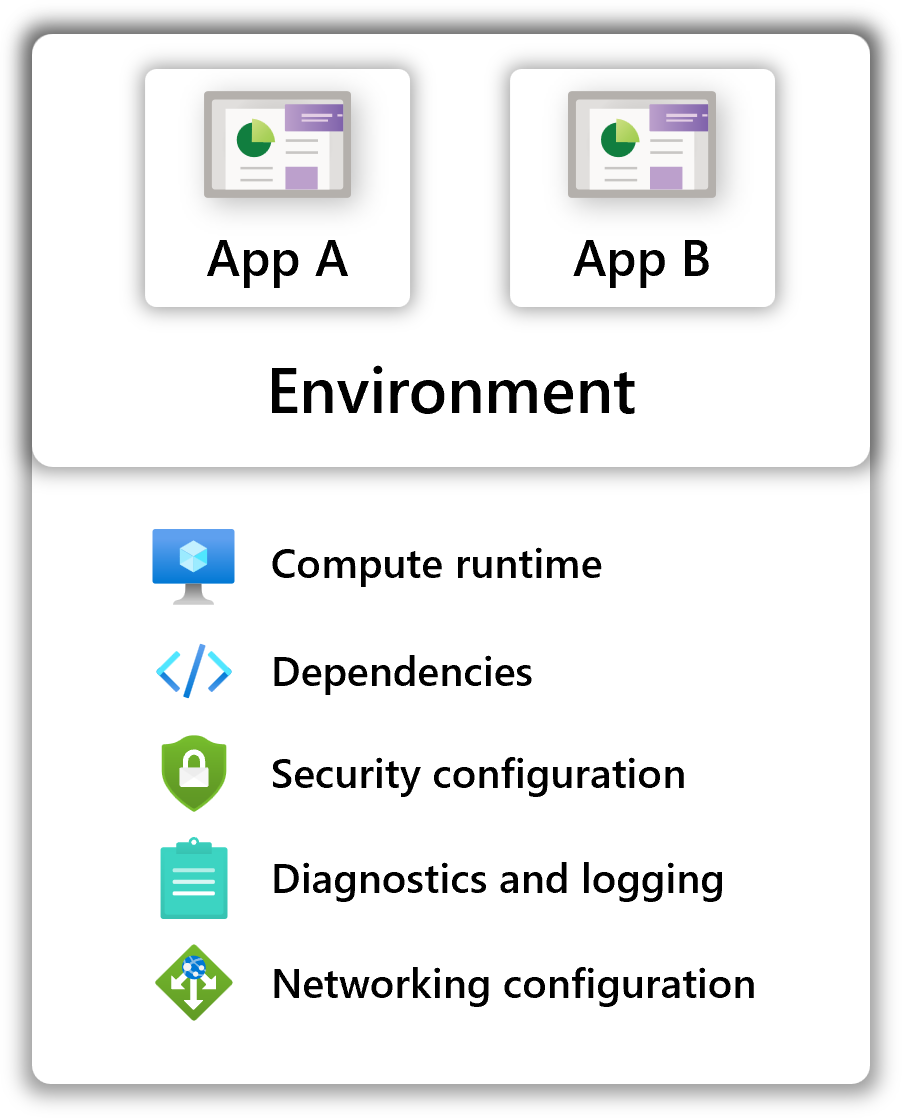
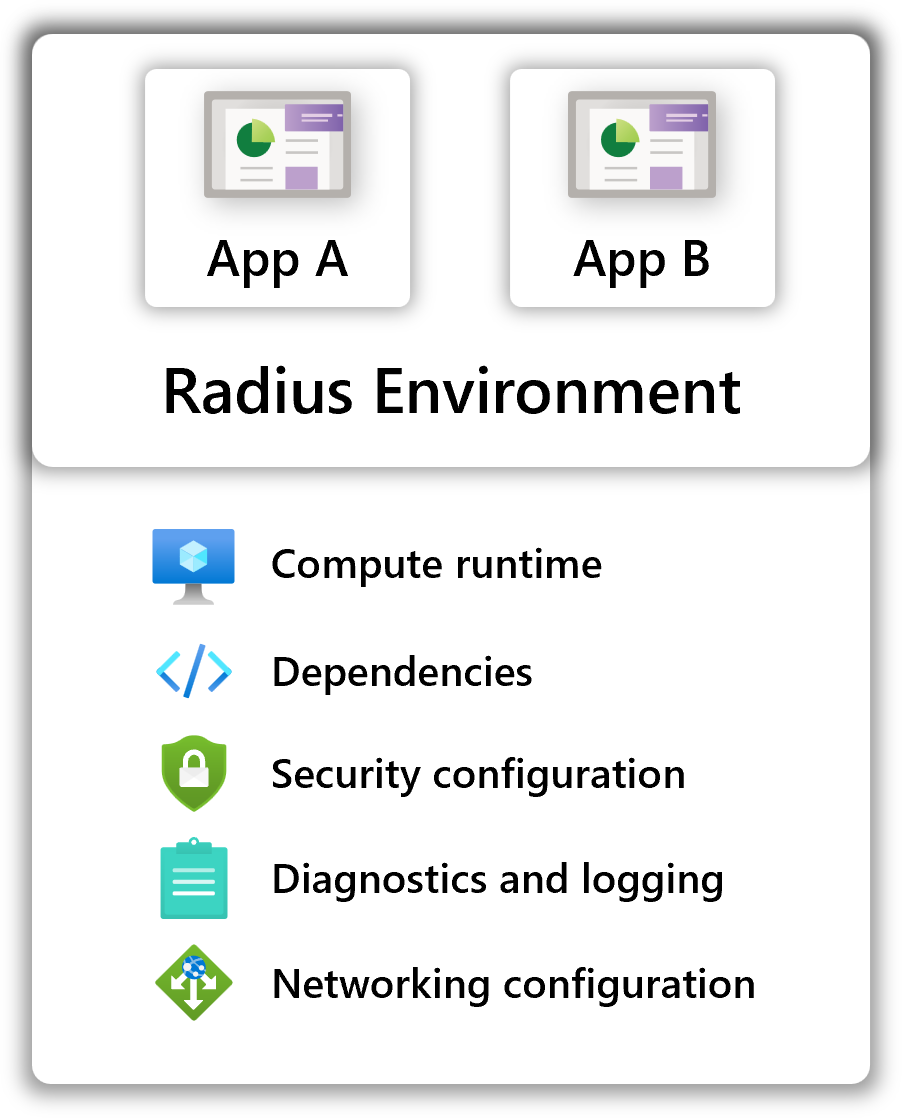
Address PR comments

Changed region(s): [[0.1863, 0.3041, 0.8381, 0.3953]]

diff --git a/docs/content/concepts/overview/_index.md b/docs/content/concepts/overview/_index.md
@@ -16,8 +16,6 @@ Apps today are modeled and deployed with Dockerfiles, Kubernetes CRDs, Helm char
 
 Once deployed, teams don't have a way to view and manage apps holistically. Instead, they're drowning in lists of disjointed resources.
 
-<img alt="Diagram showing long list of infrastructure" src="ui-mockup-list.png" width="800px" /><br />
-
 What's missing is a way to collapse the entire concept of an application into a single entity so it can be deployed, managed, and scaled easily.
 
 ## Project Radius empowers teams to focus on their apps
@@ -28,20 +26,20 @@ At the heart of Project Radius is a new **application resource**, with an accomp
 
 <img alt="Diagram showing modeling an app with Project Radius" src="cloud-apps-radius.png" width="600px" />
 
-These new resources form the **Radius app model**, which allow you to:
+These new resources form the [**Radius app model**]({{< ref appmodel-concept >}}), which allow you to:
 
 - Visualize the entire application, including its dependencies and relationships
 - Investigate cross-app health and diagnostics, including dependencies and connections
 - Identify ownership and locate artifacts
 - Support handoffs between teams as the app matures
 
-The result is no longer just a flat list of resources - it's a fully fledged diagram of how the pieces relate to each other:
+The result is no longer just a flat list of resources - it's a fully codified abstraction of how the services and infrastructure relate to each other:
 
 <img alt="Diagram showing Radius application in the Azure portal" src="ui-mockup-basic.png" width="700px" /><br />
 
 ### Drastically reduce infra ops time
 
-[App environments]({{< ref environments-concept >}}) act as a landing zone for applications. They are the place where you can deploy, manage, and scale your apps.
+[App environments]({{< ref environments-concept >}}) are landing zones for applications. They are the place where you can deploy, manage, and scale your apps.
 
 <img alt="Diagram showing Radius environments" src="environments.png" width="600px" />
 
@@ -59,7 +57,7 @@ With the Radius app model, teams can easily codify and share pieces of an applic
 {{< tabs Bicep >}}
 
 {{< codetab >}}
-{{< rad file="snippets/appmodel-concept.bicep" embed=true >}}
+{{< rad file="snippets/appmodel-concept.bicep" embed=true marker="//SNIPPET" replace-key-container="//CONTAINER" replace-value-container="container: {...}" replace-key-properties="//PROPERTIES" replace-value-properties="properties: {...}" >}}
 {{< /codetab >}}
 
 {{< /tabs >}}
@@ -77,7 +75,13 @@ Project Radius aims to support all hosting platform types - from hyperscale clou
 
 <img alt="Diagram showing Radius platforms" src="platforms.png" width="800px" />
 
-Our current focus is on delivering robust support for self-hosted environments on Kubernetes. Fully-managed environments on Azure will be supported in the future.
+### Application portability
+
+The Radius app model is designed to be portable across all Radius-supported platforms. Combined with connectors and other frameworks such as [Dapr](https://dapr.io/), teams can write their apps once and deploy to any Radius-enabled platform in minutes.
+
+### Consistent tooling
+
+As teams onboard to Project Radius and begin deploying across platforms, the tooling and experiences are consistent everywhere. The [rad CLI]({{< ref cli >}}) and [Radius VS Code extension]({{< ref vscode >}}) work across every platform and environment. This allows teams to easily scale across platforms and be productive everywhere.
 
 ## Next step
 

diff --git a/docs/content/concepts/environments-concept/_index.md b/docs/content/concepts/environments-concept/_index.md
@@ -21,11 +21,11 @@ Environments provide a grouping structure for applications and the resources the
 
 ### Separation of concerns
 
-With Radius environments, central operations and IT teams can define and share environments with development teams for them to deploy applications into. Ops teams focus on configuring the compute, dependencies, networking, and other infrastructure concerns, while developers focus on the business and application concerns. This allows each team to focus on what matters most to them, without needing to become experts in every aspect of the infraastructure and application.
+With Radius environments, central operations and IT teams can define and share environments with development teams for them to deploy applications into. Ops teams focus on configuring the compute, dependencies, networking, and other infrastructure concerns, while developers focus on the business and application concerns. This allows each team to focus on what matters most to them, without needing to become experts in every aspect of the infrastructure and application.
 
 ### Developer productivity
 
-Once an environment template is defined, developers can get up and running with a prepared devlopment, pre-production, or production environment in minutes. No more waiting for manual provisioning or configuration or inter-team coordination.
+Once an environment template is defined, developers can get up and running with a prepared development, pre-production, or production environment in minutes. No more waiting for manual provisioning or configuration or inter-team coordination.
 
 ### Replication and consistency
 
@@ -74,10 +74,10 @@ In this example there are two teams within an organization: a central administra
 
 A typical workflow for this team structure would look like:
 
-1. The administrator inializes a new environment, configured with a compute runtime setup with networking, identity, diagnostics, and other configuration that matches their org's requirements.
+1. The administrator initializes a new environment, configured with a compute runtime setup with networking, identity, diagnostics, and other configuration that matches their org's requirements.
 1. The developer authors a Radius application template, including containers for their services, connectors for their infrastructure, and routes/gateways for their networking.
 1. The developer deploys the app template to the Radius environment
-   - The app's containers automatially run on the container runtime
+   - The app's containers automatically run on the container runtime
    - The connector automatically configures security best practices and injects connection information into the consuming container
 
 When the developer deploys their application, these org-level concerns are automatically wired up based on the environment. Developers don't have to think about credentials or how networking is configured, enabling them to focus on their applications instead.

diff --git a/docs/content/concepts/appmodel-concept/_index.md b/docs/content/concepts/appmodel-concept/_index.md
@@ -78,11 +78,7 @@ Declaring a connection between two resources also injects information in the for
 
 These environment variables follow a naming convention that makes their use predictable. The naming pattern includes the connection name, which is part of the consuming component. This way the code that needs to read the values gets to define how they are named.
 
-{{% alert title="💡 Key concept" color="info" %}}
-Each kind of connection defines values that are useful for communication. These could be URIs, connection strings, access keys, or anything that application code needs to successfully communicate. Refer to each resource's reference documentation for more information.
-{{% /alert %}}
-
-The names and semantic meaning of the values available are defined by the connection kind.
+Each kind of connection defines values that are useful for communication. These could be URIs, connection strings, access keys, or anything that application code needs to successfully communicate. Refer to each [resource's reference documentation]({{< ref resource-schema >}}) for more information.
 
 The values provided through connections are a convenience and are also available as properties and functions (for secrets) when authoring your IaC files. You can ignore the values generated by a connection if you prefer to be explicit, or if you already have a convention you like to follow.
 

diff --git a/docs/content/concepts/connectors-concept/_index.md b/docs/content/concepts/connectors-concept/_index.md
@@ -35,7 +35,7 @@ The CosmosDB resource, `underlyingdb`, will fulfill the app's Mongo storage requ
 
 ### Connector
 
-In the app definition, a developer defines a Mongo connector (`dbconnector`) that references the CosmosDB resource.
+In the app definition, a developer defines a Mongo connector, `dbconnector`, that references the CosmosDB resource.
 
 {{< rad file="snippets/corerp-connector-example.bicep" embed=true marker="//CONNECTOR" >}}
 
